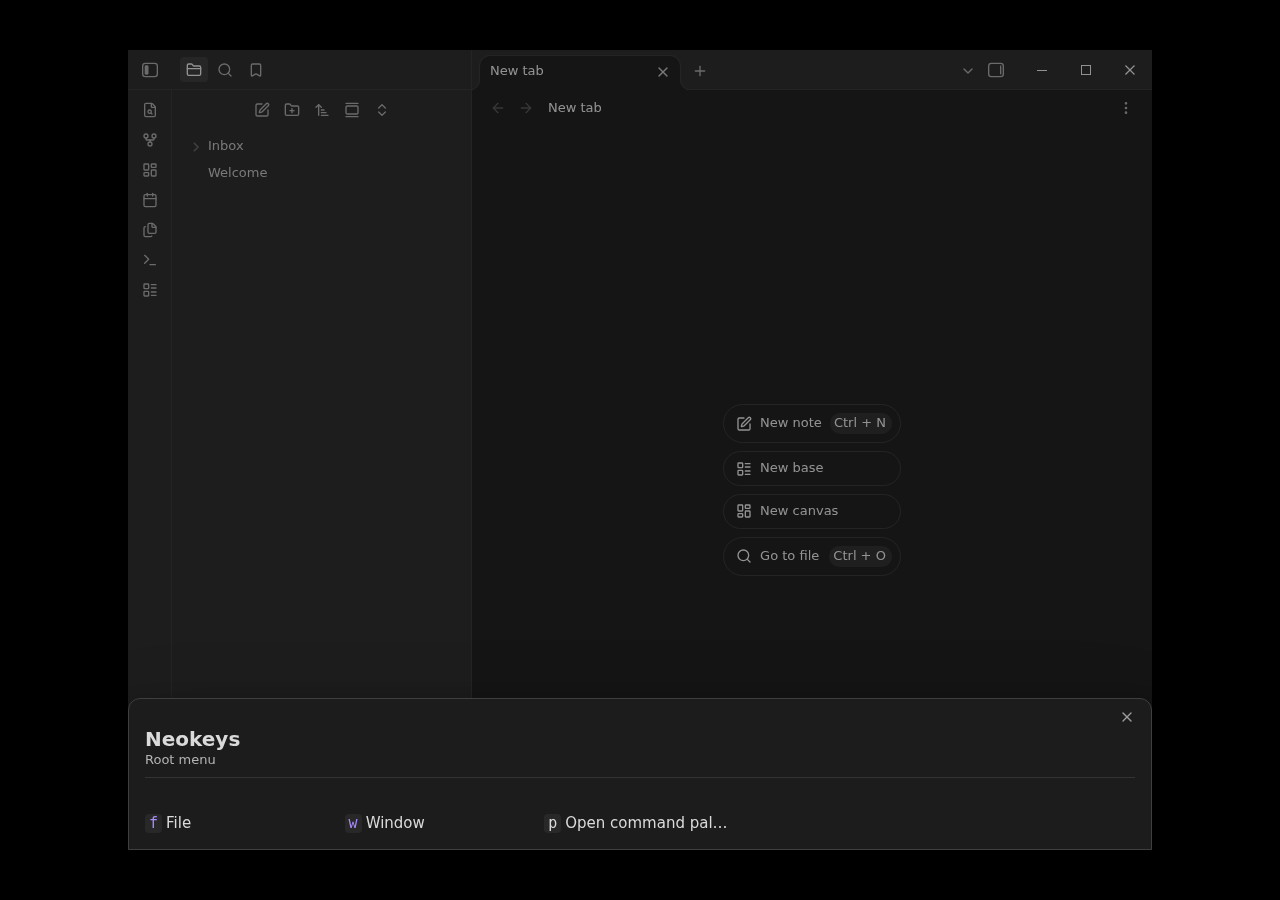
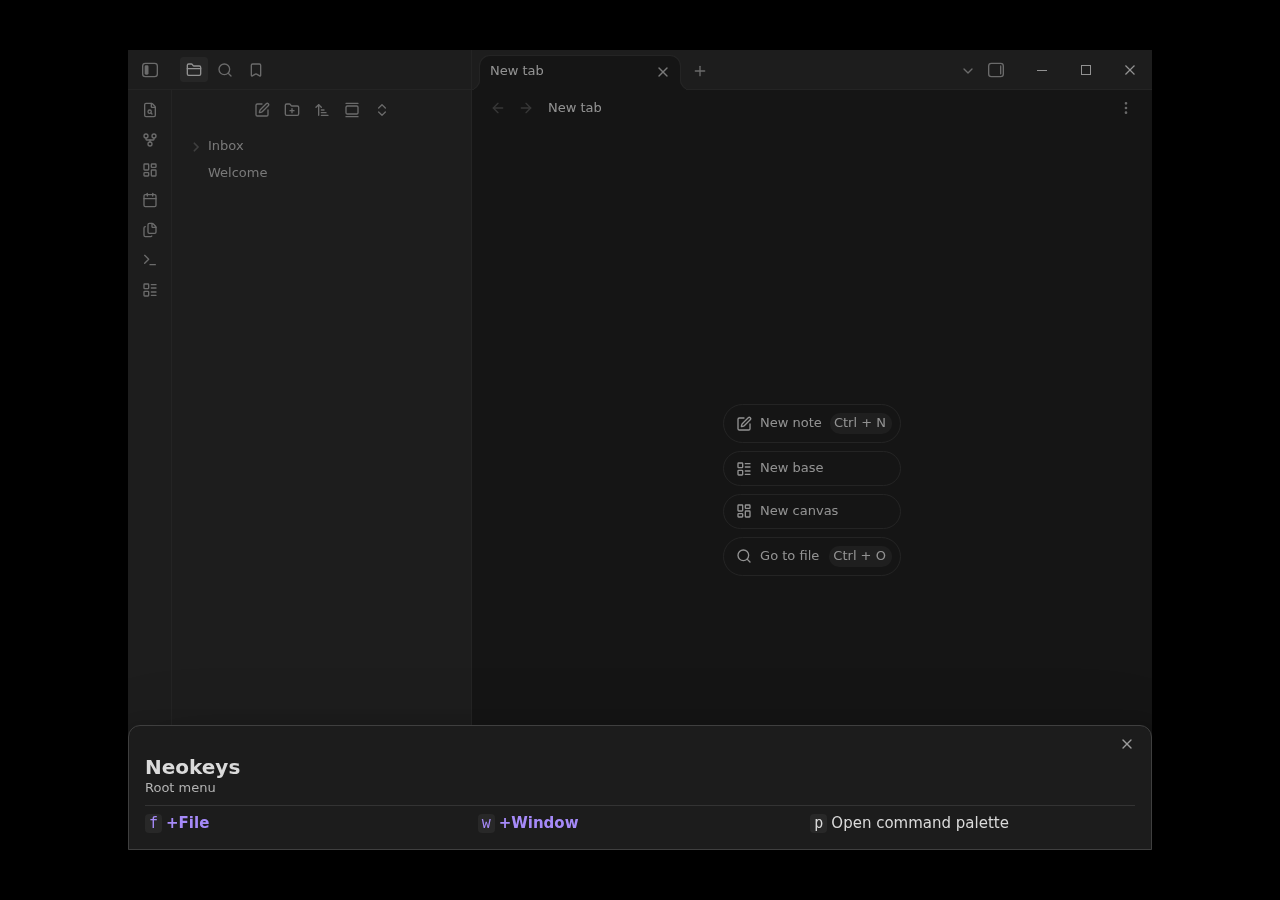
Address which-key popup review feedback
- Fall back to the Obsidian command's own display name (via a new
  app.commands lookup in obsidianCommands.ts) before showing a raw
  command id, so an undescribed leaf is never just an opaque id; also
  gave the sample "d" entry an explicit description.
- Widen the which-key grid columns (10rem -> 16rem) and let labels
  wrap instead of truncating with an ellipsis, so descriptions aren't
  cut off at desktop widths.
- Prefix group entries with "+" and accent-color their label, not just
  their key chip, which-key.nvim style, so groups read as "opens a
  submenu" at a glance instead of looking like commands.
- Hide the breadcrumb row entirely at the root instead of rendering an
  empty flex row, which was leaving a gap under the header divider.

Retook all four real-Obsidian screenshots (root/group x light/dark) in
docs/screenshots/ against the fixed build and reviewed them.

diff --git a/src/main.ts b/src/main.ts
@@ -1,5 +1,6 @@
 import { Notice, Plugin } from "obsidian";
 import { KeymapParseError, parseKeymapSource } from "./keymap";
+import { executeCommandById } from "./obsidianCommands";
 import { DEFAULT_SETTINGS, NeokeysSettingTab } from "./settings";
 import type { NeokeysSettings } from "./types";
 import { WhichKeyModal } from "./ui/whichKeyModal";
@@ -39,20 +40,10 @@ export default class NeokeysPlugin extends Plugin {
 		}
 
 		new WhichKeyModal(this.app, root, this.settings.showDelayMs, {
-			executeCommand: (id) => this.executeCommandById(id),
+			executeCommand: (id) => executeCommandById(this.app, id),
 			openFile: (path) => {
 				void this.app.workspace.openLinkText(path, "", false);
 			},
 		}).open();
-	}
-
-	private executeCommandById(id: string): void {
-		// `app.commands` is not part of the public Obsidian API, but it is the
-		// standard community idiom for invoking an arbitrary registered command
-		// by ID (there is no supported alternative); Spacekeys relies on the
-		// same object for its command picker.
-		// @ts-expect-error: `commands` is not declared on the public App type.
-		const commands = this.app.commands as unknown as { executeCommandById(commandId: string): boolean };
-		commands.executeCommandById(id);
 	}
 }

diff --git a/src/ui/whichKeyModal.ts b/src/ui/whichKeyModal.ts
@@ -1,6 +1,7 @@
 import { App, Modal } from "obsidian";
 import { ShowDelayGate } from "../delay";
 import { keyFromEvent, keyGlyph } from "../keys";
+import { getCommandName } from "../obsidianCommands";
 import { entryLabel, findEntry, sortEntries } from "../tree";
 import type { GroupNode } from "../types";
 
@@ -62,6 +63,7 @@ export class WhichKeyModal extends Modal {
 		this.descEl.toggleClass("neokeys-hidden", !group.description);
 
 		this.breadcrumbEl.empty();
+		this.breadcrumbEl.toggleClass("neokeys-hidden", this.path.length <= 1);
 		for (let i = 1; i < this.path.length; i++) {
 			const parent = this.path[i - 1];
 			const entry = parent.entries.find((e) => e.node === this.path[i]);
@@ -72,7 +74,11 @@ export class WhichKeyModal extends Modal {
 		for (const entry of sortEntries(group)) {
 			const row = this.gridEl.createDiv({ cls: `neokeys-row neokeys-row-${entry.node.kind}` });
 			row.createSpan({ text: keyGlyph(entry.key), cls: "neokeys-key" });
-			row.createSpan({ text: entryLabel(entry), cls: "neokeys-label" });
+			const label = entryLabel(entry, (id) => getCommandName(this.app, id));
+			row.createSpan({
+				text: entry.node.kind === "group" ? `+${label}` : label,
+				cls: "neokeys-label",
+			});
 		}
 	}
 

diff --git a/styles.css b/styles.css
@@ -54,6 +54,12 @@
 	min-height: calc(var(--font-ui-small) * 1.5);
 }
 
+.neokeys-breadcrumb.neokeys-hidden {
+	display: none;
+	margin-bottom: 0;
+	min-height: 0;
+}
+
 .neokeys-breadcrumb-key {
 	background: var(--background-secondary);
 	border-radius: var(--radius-s);
@@ -64,14 +70,14 @@
 
 .neokeys-grid {
 	display: grid;
-	grid-template-columns: repeat(auto-fill, minmax(10rem, 1fr));
+	grid-template-columns: repeat(auto-fill, minmax(16rem, 1fr));
 	gap: var(--size-2-2) var(--size-4-2);
 	overflow-y: auto;
 }
 
 .neokeys-row {
 	display: flex;
-	align-items: baseline;
+	align-items: flex-start;
 	gap: var(--size-2-2);
 }
 
@@ -85,13 +91,16 @@
 
 .neokeys-label {
 	color: var(--text-normal);
-	overflow: hidden;
-	text-overflow: ellipsis;
-	white-space: nowrap;
+	overflow-wrap: break-word;
 }
 
 .neokeys-row-group .neokeys-key {
 	color: var(--text-accent);
+}
+
+.neokeys-row-group .neokeys-label {
+	color: var(--text-accent);
+	font-weight: var(--font-semibold);
 }
 
 .neokeys-row-file .neokeys-key {

diff --git a/src/tree.ts b/src/tree.ts
@@ -26,14 +26,19 @@ export function sortEntries(group: GroupNode): GroupEntry[] {
 	});
 }
 
-/** The label to show for an entry's row: its own description/title, falling back to an identifier. */
-export function entryLabel(entry: GroupEntry): string {
+/**
+ * The label to show for an entry's row: its own description/title, falling
+ * back to the Obsidian command's own display name for a bare command entry
+ * (via `resolveCommandName`, since that lookup needs a live App), and only
+ * falling back further to a raw identifier when nothing else is available.
+ */
+export function entryLabel(entry: GroupEntry, resolveCommandName?: (id: string) => string | undefined): string {
 	const { node } = entry;
 	if (node.kind === "group") {
 		return node.title ?? node.description ?? entry.rawKey;
 	}
 	if (node.kind === "command") {
-		return node.description ?? node.command;
+		return node.description ?? resolveCommandName?.(node.command) ?? node.command;
 	}
 	return node.description ?? node.file;
 }

diff --git a/src/obsidianCommands.ts b/src/obsidianCommands.ts
@@ -1,0 +1,25 @@
+import type { App } from "obsidian";
+
+interface CommandsApi {
+	executeCommandById(id: string): boolean;
+	commands: Record<string, { name?: string } | undefined>;
+}
+
+/**
+ * `app.commands` is not part of the public Obsidian API, but it is the
+ * standard community idiom both for invoking an arbitrary registered command
+ * by ID and for reading a command's display name (there is no supported
+ * alternative); Spacekeys relies on the same object.
+ */
+function commandsApi(app: App): CommandsApi {
+	// @ts-expect-error: `commands` is not declared on the public App type.
+	return app.commands as CommandsApi;
+}
+
+export function executeCommandById(app: App, id: string): void {
+	commandsApi(app).executeCommandById(id);
+}
+
+export function getCommandName(app: App, id: string): string | undefined {
+	return commandsApi(app).commands[id]?.name;
+}

diff --git a/tests/tree.test.ts b/tests/tree.test.ts
@@ -73,10 +73,16 @@ describe("entryLabel", () => {
 		expect(entryLabel(f)).toBe("File");
 	});
 
-	it("falls back to the command id when a command has no description", () => {
+	it("falls back to the command id when a command has no description and no resolver is given", () => {
 		const root = parseKeymapSource(SOURCE);
 		const z = findEntry(root, parseKeyString("z"))!;
 		expect(entryLabel(z)).toBe("app:zoom");
+	});
+
+	it("falls back to the resolved Obsidian command name before the raw id", () => {
+		const root = parseKeymapSource(SOURCE);
+		const z = findEntry(root, parseKeyString("z"))!;
+		expect(entryLabel(z, (id) => (id === "app:zoom" ? "Zoom in" : undefined))).toBe("Zoom in");
 	});
 
 	it("prefers a command's description over its id", () => {

diff --git a/src/sampleKeymap.ts b/src/sampleKeymap.ts
@@ -11,7 +11,7 @@ items:
     items:
       n: file-explorer:new-file New file
       s: editor:save-file Save file
-      d: app:delete-file
+      d: app:delete-file Delete current file
   w:
     title: Window
     description: Panes, tabs, and layout
